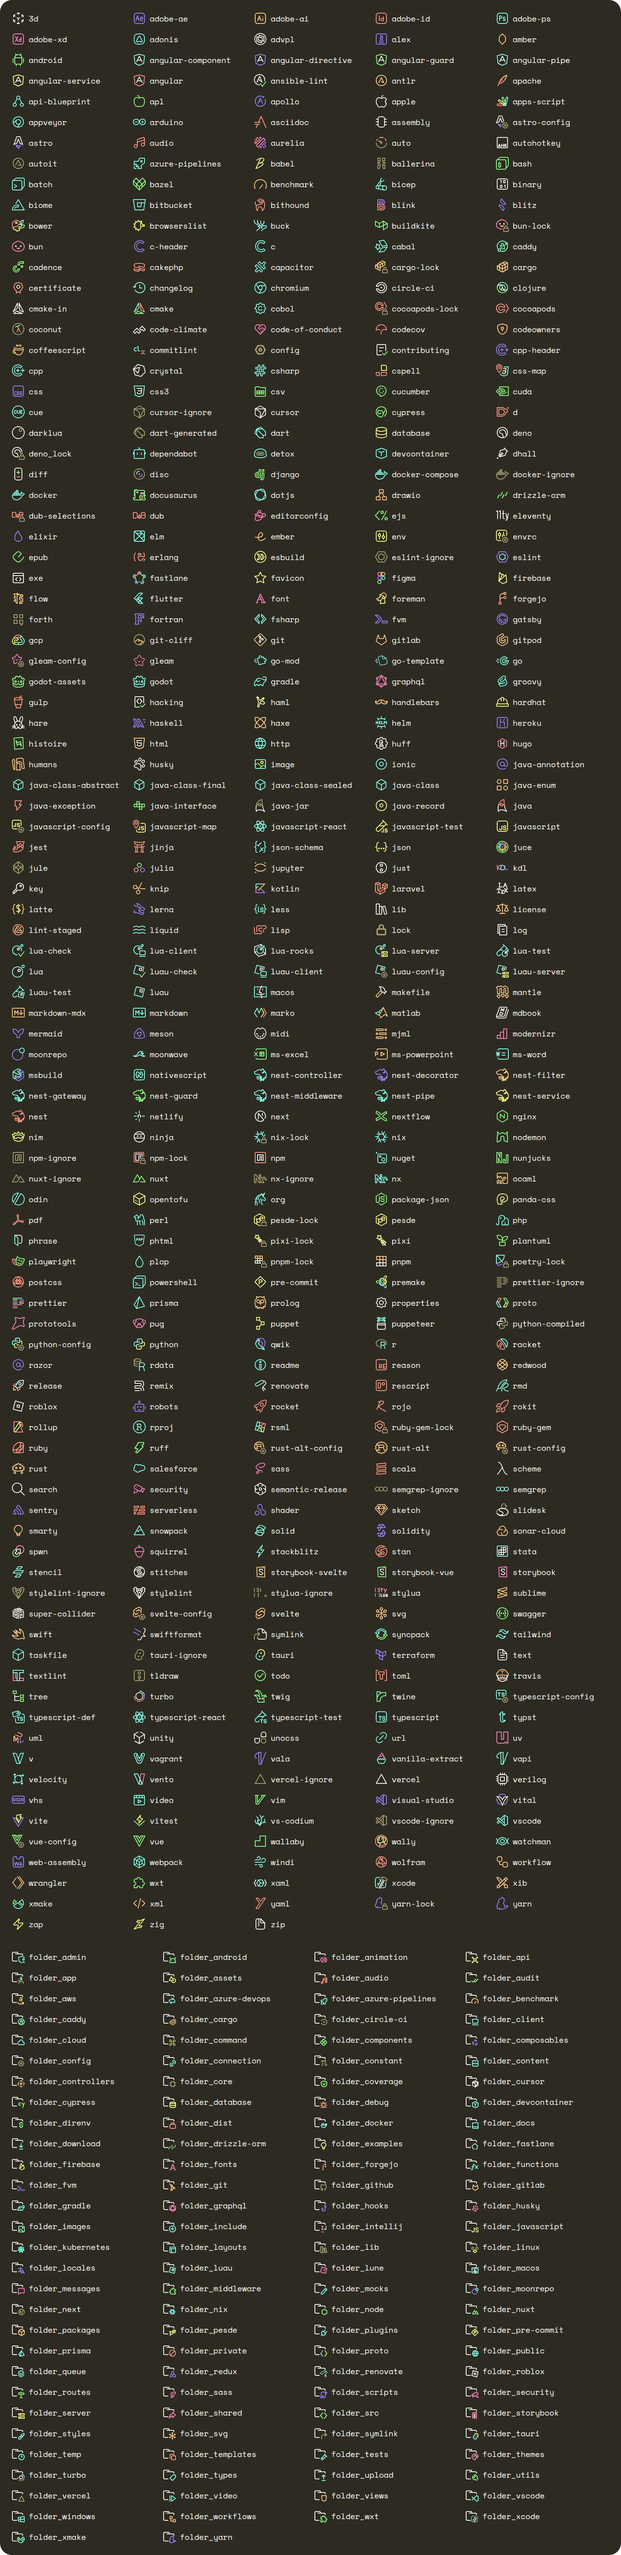
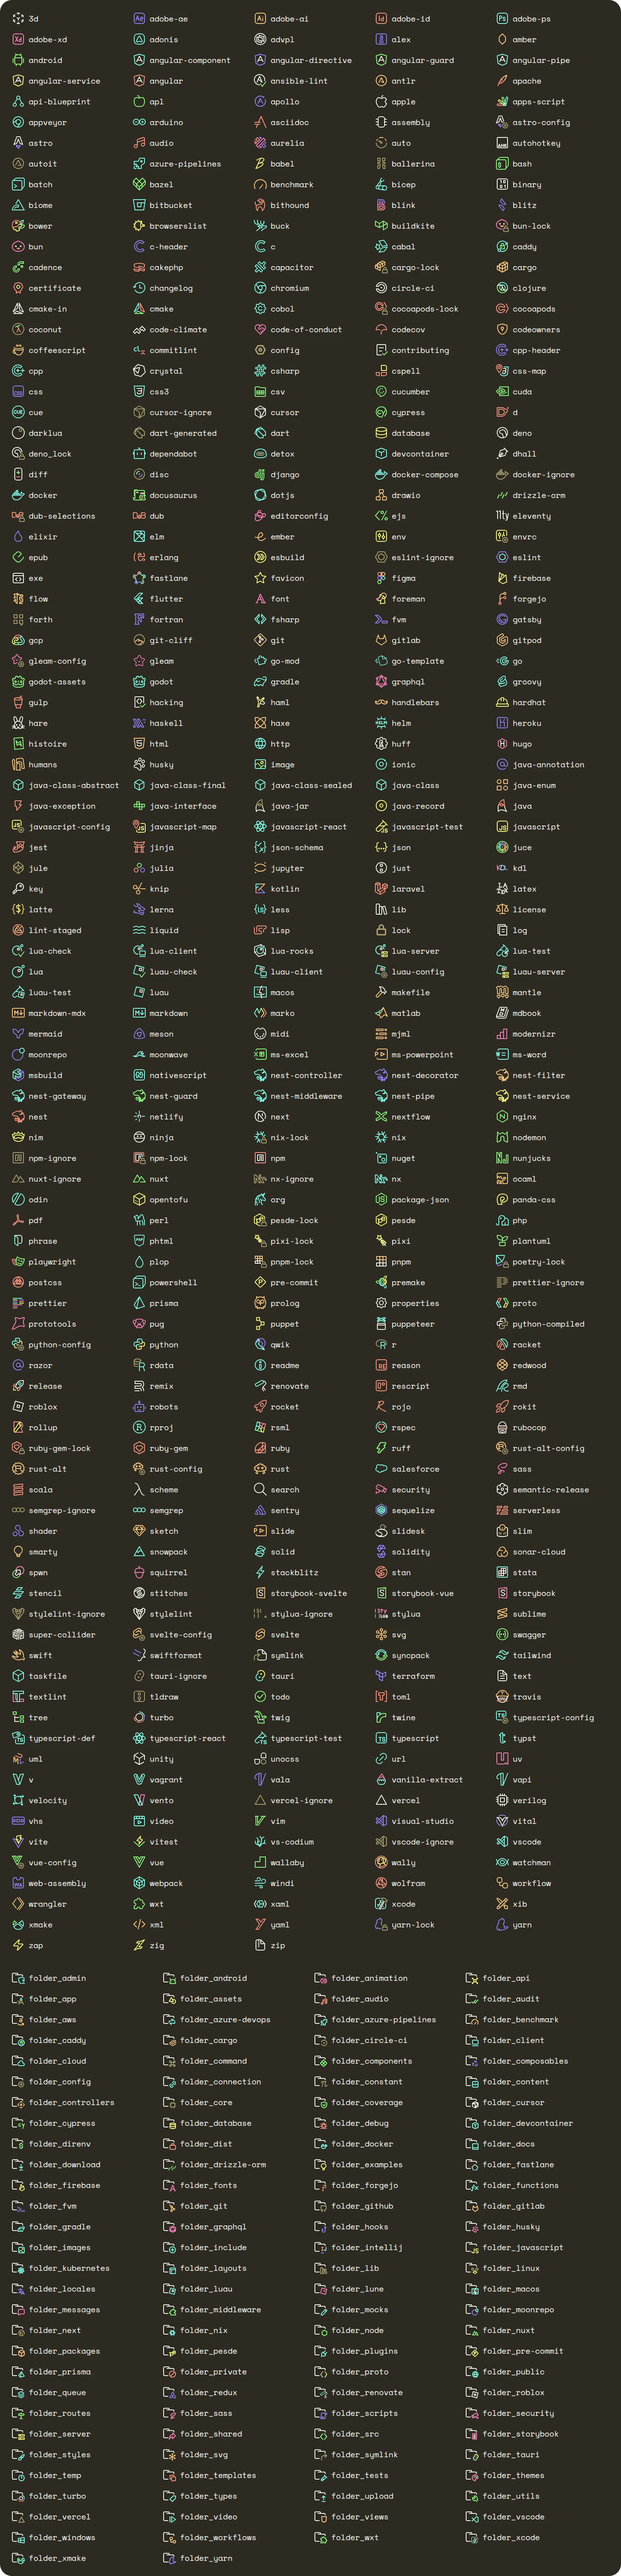
+5 iconos 9.

diff --git a/src/defaults/fileIcons.ts b/src/defaults/fileIcons.ts
@@ -2395,6 +2395,12 @@ const fileIcons: FileIcons = {
   'rsml': {
     fileExtensions: ['rsml'],
   },
+  'rspec': {
+    fileNames: ['.rspec'],
+  },
+  'rubocop': {
+    fileNames: ['.rubocop.yml', '.rubocop-todo.yml', '.rubocop_todo.yml'],
+  },
   'ruby-gem-lock': {
     fileNames: ['gemfile.lock'],
   },
@@ -2483,6 +2489,9 @@ const fileIcons: FileIcons = {
   'sentry': {
     fileNames: ['.sentryclirc'],
   },
+  'sequelize': {
+    fileNames: ['.sequelizerc'],
+  },
   'serverless': {
     fileNames: [
       'serverless.yml',
@@ -2540,9 +2549,28 @@ const fileIcons: FileIcons = {
   'sketch': {
     fileExtensions: ['sketch'],
   },
+  'slide': {
+    fileExtensions: [
+      'pptx',
+      'ppt',
+      'pptm',
+      'potx',
+      'potm',
+      'ppsx',
+      'ppsm',
+      'pps',
+      'ppam',
+      'ppa',
+      'odp',
+    ],
+  },
   'slidesk': {
     languageIds: ['sdf'],
     fileExtensions: ['sdf', 'sdt'],
+  },
+  'slim': {
+    languageIds: ['slim'],
+    fileExtensions: ['slim'],
   },
   'smarty': {
     languageIds: ['smarty'],
